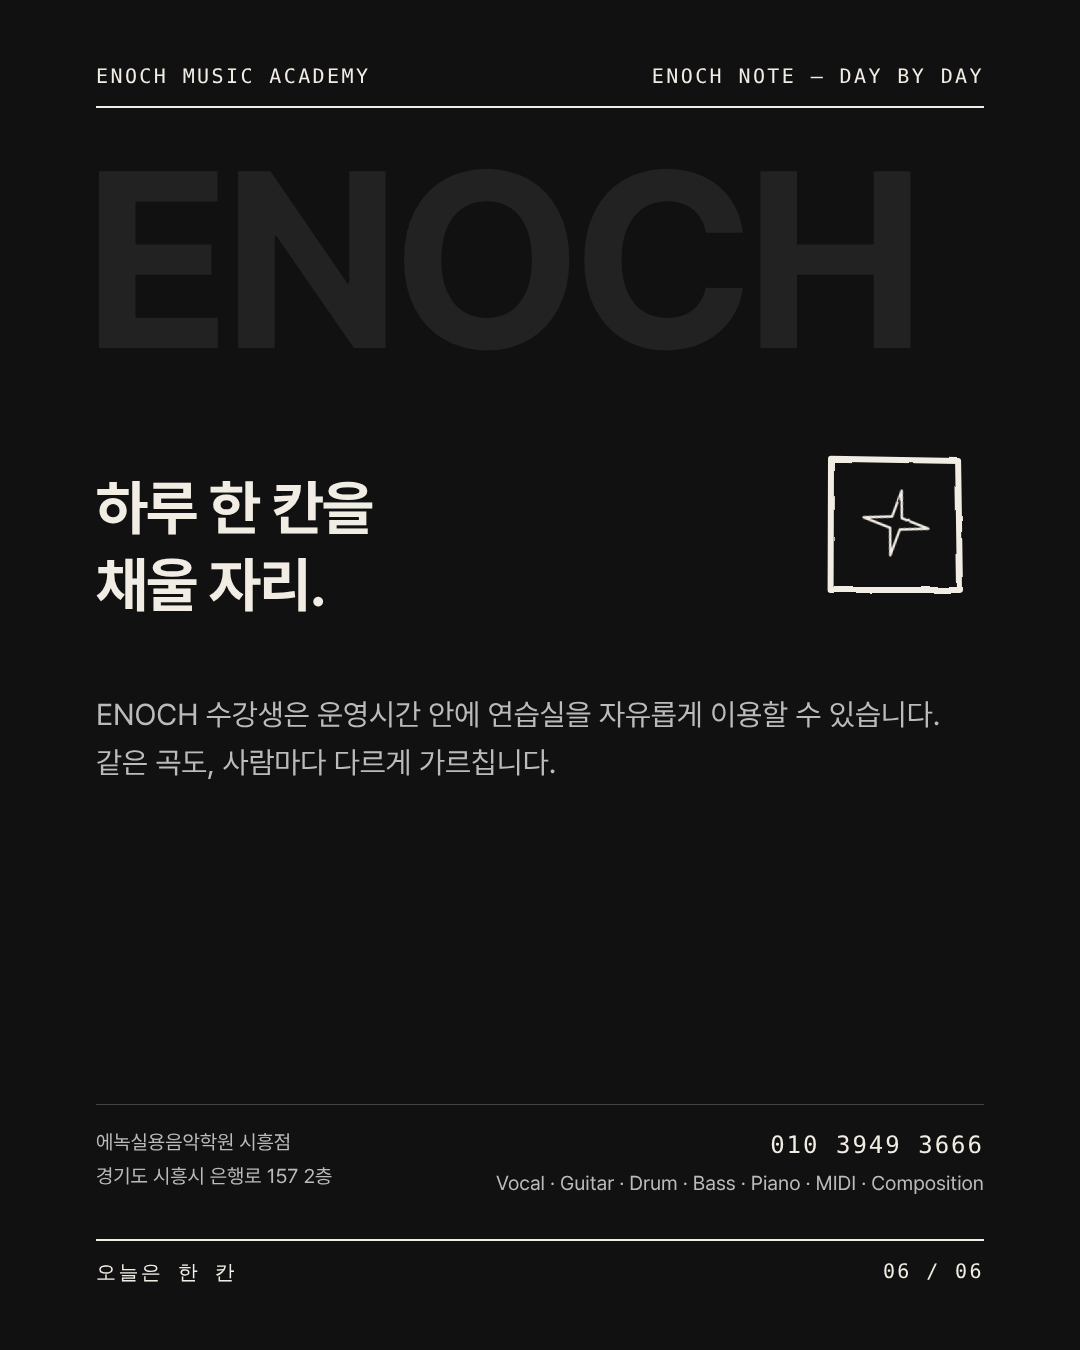
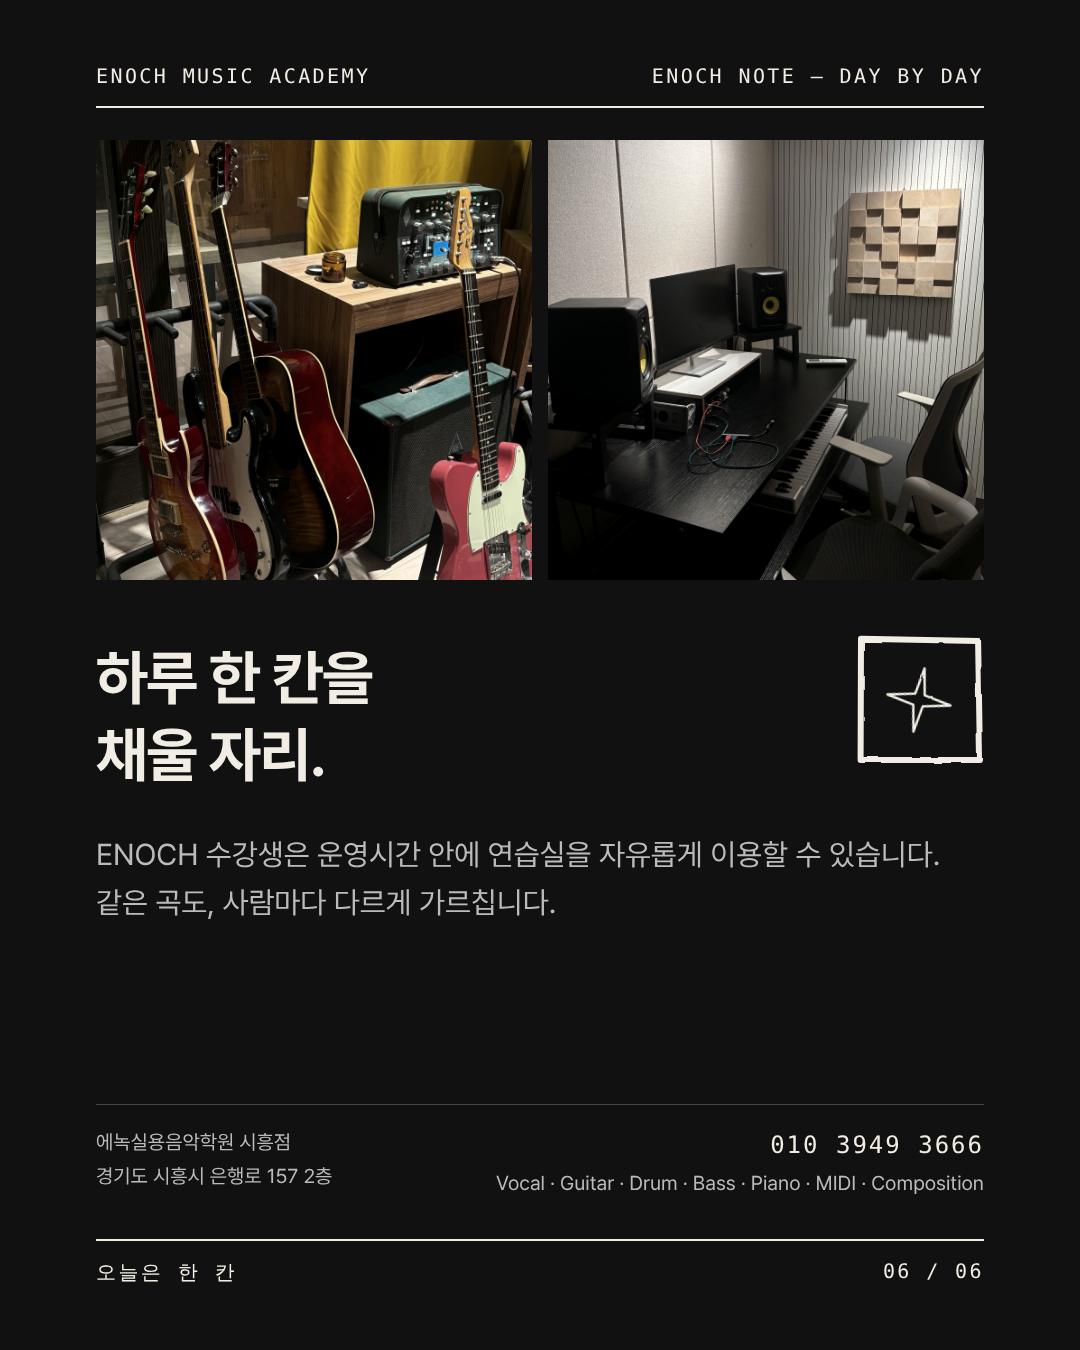
오늘은 한 칸 6장: 학원 사진(기타존·미디룸) 추가
Claude-Session: https://claude.ai/code/session_01HGbZvgMeYrbU7mY8bwfjyb

diff --git a/output/노트_오늘은한칸/deck.html b/output/노트_오늘은한칸/deck.html
@@ -20,8 +20,9 @@ h2{position:absolute;left:96px;top:196px;font-size:60px;line-height:1.28;font-we
 .body b{color:#111;font-weight:700;font-size:34px}
 .c .body{top:1090px}
 .dark .ghost{position:absolute;left:84px;top:110px;font-size:250px;font-weight:700;letter-spacing:-8px;color:#222}
-.dark h2.close{top:470px}
-.dark .body{top:690px;bottom:auto;color:#bbb;font-size:30px}
+.dark h2.close{top:640px}
+.pics{position:absolute;left:96px;right:96px;top:140px;height:440px;display:grid;grid-template-columns:1fr 1fr;gap:16px}.pics img{width:100%;height:440px;display:block;object-fit:cover;filter:saturate(.7) contrast(1.02)}
+.dark .body{top:830px;bottom:auto;color:#bbb;font-size:30px}
 .info{position:absolute;left:96px;right:96px;bottom:150px;display:flex;justify-content:space-between;font-size:20px;color:#bbb;line-height:1.7;border-top:1px solid #444;padding-top:20px}
 .info .r{text-align:right}.info .tel{font-family:var(--mono);font-size:24px;color:#F1EDE4;letter-spacing:2px}
 </style></head><body><section class="c"><svg class="art" viewBox="0 0 1080 1350" width="1080" height="1350">
@@ -110,13 +111,13 @@ h2{position:absolute;left:96px;top:196px;font-size:60px;line-height:1.28;font-we
 <p class="body"><b>지금, 잘하고 있어요.</b></p>
 <div class="ft"><span>오늘은 한 칸</span><span>05 / 06</span></div></section>
 <section class="c dark"><svg class="art" viewBox="0 0 1080 1350" width="1080" height="1350">
-<defs><filter id="wob" x="-5%" y="-5%" width="110%" height="110%"><feTurbulence type="fractalNoise" baseFrequency="0.03" numOctaves="2" seed="4"/><feDisplacementMap in="SourceGraphic" scale="4"/></filter></defs><g transform="translate(830 460)" filter="url(#wob)"><path d="M1 -1.2000000000000002 L128.1 1 L130 129.9 L0.6000000000000001 130 Z" fill="none" stroke="#F1EDE4" stroke-width="6" stroke-linejoin="round"/></g></svg><svg class="doodle" viewBox="0 0 200 200" width="82" height="82"
-    style="position:absolute;left:855px;top:482px;transform:rotate(10deg);opacity:1;color:#F1EDE4;overflow:visible;pointer-events:none">
+<defs><filter id="wob" x="-5%" y="-5%" width="110%" height="110%"><feTurbulence type="fractalNoise" baseFrequency="0.03" numOctaves="2" seed="4"/><feDisplacementMap in="SourceGraphic" scale="4"/></filter></defs><g transform="translate(860 640)" filter="url(#wob)"><path d="M1 -1.2000000000000002 L118.1 1 L120 119.9 L0.6000000000000001 120 Z" fill="none" stroke="#F1EDE4" stroke-width="6" stroke-linejoin="round"/></g></svg><svg class="doodle" viewBox="0 0 200 200" width="80" height="80"
+    style="position:absolute;left:879px;top:660px;transform:rotate(10deg);opacity:1;color:#F1EDE4;overflow:visible;pointer-events:none">
     <defs><filter id="wob10" x="-10%" y="-10%" width="120%" height="120%">
   <feTurbulence type="fractalNoise" baseFrequency="0.035" numOctaves="2" seed="10"/>
   <feDisplacementMap in="SourceGraphic" scale="5"/></filter></defs>
     <g filter="url(#wob10)" stroke="#F1EDE4" stroke-width="6" stroke-linecap="round" stroke-linejoin="round"><path d="M100 20 L112 86 L180 100 L112 114 L100 180 L88 114 L20 100 L88 86 Z" fill="none"/></g></svg><div class="hd"><span>ENOCH MUSIC ACADEMY</span><span>ENOCH NOTE — DAY BY DAY</span></div>
-<p class="ghost">ENOCH</p>
+<div class="pics"><img src="../../images/공간/기타존_01.jpg" style="object-position:40% 60%"><img src="../../images/공간/미디룸_02.jpg" style="object-position:30% 70%"></div>
 <h2 class="close">하루 한 칸을<br>채울 자리.</h2>
 <p class="body">ENOCH 수강생은 운영시간 안에 연습실을 자유롭게 이용할 수 있습니다.<br>같은 곡도, 사람마다 다르게 가르칩니다.</p>
 <div class="info"><div><p>에녹실용음악학원 시흥점</p><p>경기도 시흥시 은행로 157 2층</p></div><div class="r"><p class="tel">010 3949 3666</p><p>Vocal · Guitar · Drum · Bass · Piano · MIDI · Composition</p></div></div>
